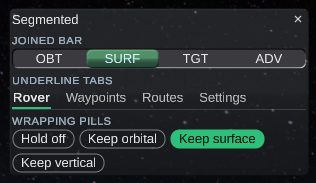
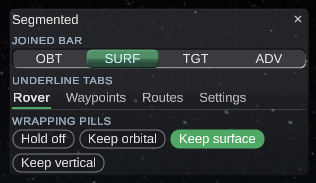
New UI: one Classic skin
The plain Classic skin goes, and Classic+ takes its name, so it's the default.
Theme.TintRoles goes with it: no skin leaves its role buttons plain now.

UiSkin is saved as the index in the skin list, so a value saved by an earlier
build moves: Flat (2) now reads as Glass, Glass (3) as ZTheme.

Changed region(s): [[0.5411, 0.7104, 0.8544, 0.8197], [0.0285, 0.5738, 0.1709, 0.6011]]

diff --git a/MechJeb2.UI/KodeKit/Theme.cs b/MechJeb2.UI/KodeKit/Theme.cs
@@ -79,9 +79,6 @@ namespace KodeKit
         /// <summary>Hairlines: the tabs' base line, separators.</summary>
         public Color Rule = new Color(1, 1, 1, 0.14f);
 
-        /// <summary>Primary and danger buttons without a style of their own are tinted (Classic+); off, they look plain, as in IMGUI (Classic).</summary>
-        public bool TintRoles;
-
         // the tinted role looks, made once per role and Button (Role is called on every restyle of every role button)
         ElementStyle[] tinted;
         ElementStyle tintedFrom;
@@ -92,7 +89,6 @@ namespace KodeKit
         {
             ElementStyle own = role == ButtonRole.Primary ? Primary : role == ButtonRole.Danger ? Danger : role == ButtonRole.Selected ? Selected : null;
             if (own != null || role == ButtonRole.Normal) return own ?? Button;
-            if (!TintRoles && role != ButtonRole.Selected) return Button;
             // a new array, not a cleared one: Copy() shares this one with the theme it was copied from
             if (tinted == null || tintedFrom != Button || tintedTint != Button.Tint)
             {
@@ -217,11 +213,10 @@ namespace KodeKit
             return t;
         }
 
-        /// <summary>Skin A, "Classic+": KSP's stock sprites, with section headers, an accent and button roles (tinted).</summary>
-        public static Theme ClassicPlus(Theme from)
+        /// <summary>Skin A, "Classic": KSP's stock sprites, with an accent and button roles (tinted).</summary>
+        public static Theme Classic(Theme from)
         {
-            Theme t = from.Copy("Classic+");
-            t.TintRoles = true;
+            Theme t = from.Copy("Classic");
             t.Accent = new Color(0.31f, 0.66f, 0.39f);
             t.AccentText = Color.white;
             t.Header = new Color(0.62f, 0.69f, 0.75f);

diff --git a/MechJeb2.UI/src/KodeHost.cs b/MechJeb2.UI/src/KodeHost.cs
@@ -217,7 +217,7 @@ namespace MuMech.UI
 
         /// <summary>
         /// MechJeb skin → KodeKit theme: KSP's stock sprites at MechJeb's text size (MechJeb's DEFAULT and MECH_JEB1), tighter
-        /// for COMPACT, then the new UI's own skin on top (Classic+, Flat, Glass).
+        /// for COMPACT, then the new UI's own skin on top (Classic, Flat, Glass, ZTheme).
         /// </summary>
         void ApplyTheme()
         {
@@ -249,7 +249,7 @@ namespace MuMech.UI
             // darker windows than KSP's grey sprite, at the user's opacity (Settings → "New UI opacity")
             opacity = Mathf.Clamp(opacity, 0.3f, 1f);
             t.Window.Tint = new Color(0.5f, 0.5f, 0.5f, opacity);
-            if (skin == MechJebModuleSettings.UiSkinType.ClassicPlus) t = Theme.ClassicPlus(t);
+            if (skin == MechJebModuleSettings.UiSkinType.Classic) t = Theme.Classic(t);
             else if (skin == MechJebModuleSettings.UiSkinType.Flat) t = Theme.Flat(t);
             else if (skin == MechJebModuleSettings.UiSkinType.Glass) t = Theme.Glass(t);
             else if (skin == MechJebModuleSettings.UiSkinType.ZTheme) t = Theme.ZTheme(t);

diff --git a/MechJeb2/MechJebModuleSettings.cs b/MechJeb2/MechJebModuleSettings.cs
@@ -50,9 +50,9 @@ namespace MuMech
         public float UiOpacity = 0.85f;
 
         // the new UI's look, set from its own Settings window; IMGUI ignores them
-        public enum UiSkinType { Classic, ClassicPlus, Flat, Glass, ZTheme }
+        public enum UiSkinType { Classic, Flat, Glass, ZTheme }
 
-        /// <summary>New UI skin: Classic (IMGUI's look), Classic+ (stock sprites, tidied), Flat (dark, flat), Glass (translucent HUD), ZTheme (the ZTheme mod's colours).</summary>
+        /// <summary>New UI skin: Classic (stock sprites, tinted button roles), Flat (dark, flat), Glass (translucent HUD), ZTheme (the ZTheme mod's colours).</summary>
         [Persistent(pass = (int)Pass.GLOBAL)]
         public int UiSkin = (int)UiSkinType.Classic;
 

diff --git a/MechJeb2.UI/src/SettingsView.cs b/MechJeb2.UI/src/SettingsView.cs
@@ -115,7 +115,7 @@ namespace MuMech.UI
             // the new UI's look: its skin, and the modern layout (KodeHost rebuilds the windows when the layout changes)
             Layout skin = KodeWindow.Row(r);
             KodeWindow.Label(skin, "#MechJeb_NewUI_Skin");
-            string[] skins = Locs("#MechJeb_NewUI_SkinClassic", "#MechJeb_NewUI_SkinClassicPlus", "#MechJeb_NewUI_SkinFlat", "#MechJeb_NewUI_SkinGlass", "#MechJeb_NewUI_SkinZTheme");
+            string[] skins = Locs("#MechJeb_NewUI_SkinClassic", "#MechJeb_NewUI_SkinFlat", "#MechJeb_NewUI_SkinGlass", "#MechJeb_NewUI_SkinZTheme");
             new ComboBox(w, skin, () => settings.UiSkin, i =>
             {
                 settings.UiSkin = i;

diff --git a/MechJeb2.UI/KodeKit/LAYOUTS.md b/MechJeb2.UI/KodeKit/LAYOUTS.md
@@ -15,7 +15,7 @@ The new UI's Settings window has three settings for this. All are saved globally
 
 | Setting | Field | Values | Effect |
 |---|---|---|---|
-| New UI skin | `UiSkin` | Classic, Classic+, Flat, Glass, ZTheme | The look (see Skins). It applies to every new-UI window at once, without a rebuild. |
+| New UI skin | `UiSkin` | Classic, Flat, Glass, ZTheme | The look (see Skins). It applies to every new-UI window at once, without a rebuild. |
 | Modern layout | `UiModernLayout` | off (default) / on | Views build with the widgets below instead of IMGUI's. Changing it rebuilds the open windows. |
 | Section headers | `UiSectionHeaders` | on (default) / off | The headers the modern layout adds to long windows (`KodeWindow.Header`). |
 
@@ -27,7 +27,7 @@ used to compare the three styles window by window, then dropped (2026-10-30).
 
 ## Skins
 
-`Theme.ClassicPlus`, `Theme.Flat`, `Theme.Glass` and `Theme.ZTheme` derive from the base theme (KSP's stock sprites,
+`Theme.Classic`, `Theme.Flat`, `Theme.Glass` and `Theme.ZTheme` derive from the base theme (KSP's stock sprites,
 LiberationSans 13 px, MechJeb's row heights). Each sets the accent colour, the header colour, the hairline (`Rule`) colour,
 and the `Primary` / `Danger` / `Selected` button styles. Flat, Glass and ZTheme also replace every sprite with rounded boxes
 drawn in code (`Sprites.RoundedBox`, 9-sliced at the corner radius, cached per parameters). The window opacity setting goes
@@ -37,10 +37,6 @@ into the window tint's alpha.
 
 ![](doc/Classic_all.jpg)
 
-**Classic+**
-
-![](doc/ClassicPlus_all.jpg)
-
 **Flat**
 
 ![](doc/Flat_all.jpg)
@@ -49,10 +45,8 @@ into the window tint's alpha.
 
 ![](doc/Glass_all.jpg)
 
-- **Classic**: KSP's sprites, as close to IMGUI as possible. Main and destructive buttons stay plain, and selected choices
-  are green, as in IMGUI's selection grids.
-- **Classic+**: the same sprites, with its own accent colour. Main buttons are tinted blue and destructive ones red
-  (`Theme.TintRoles`).
+- **Classic**: KSP's sprites, with its own accent colour. Main buttons are tinted blue, destructive ones red, and selected
+  choices green, as in IMGUI's selection grids.
 - **Flat**: solid dark panels with 4 to 7 px corners and one green accent.
 - **Glass**: translucent panels with cyan outlines, close to KSP's navball and map HUD.
 - **ZTheme**: purple-tinted dark greys and a green accent, the colours of the ZTheme mod (github.com/zapSNH/ZTheme). It
@@ -180,9 +174,9 @@ bar.Primary("#MechJeb_Maneu_button1", () => CreateNodes(false));
 
 Each window shows the three styles, top to bottom: joined bar, underline tabs, wrapping pills.
 
-| Classic | Classic+ | Flat | Glass |
-|---|---|---|---|
-| ![](doc/Classic_Segmented.png) | ![](doc/ClassicPlus_Segmented.png) | ![](doc/Flat_Segmented.png) | ![](doc/Glass_Segmented.png) |
+| Classic | Flat | Glass |
+|---|---|---|
+| ![](doc/Classic_Segmented.png) | ![](doc/Flat_Segmented.png) | ![](doc/Glass_Segmented.png) |
 
 One control for "exactly one of these". It replaces SelectionGrid rows and sets of checkboxes that act as one choice.
 
@@ -261,9 +255,8 @@ w.Visible(GuidanceUi.Wrapped(bar, "#MechJeb_Docking_label2").gameObject, () => n
 ### Buttons by role
 
 `ButtonRole.Normal`, `Primary` (the main action), `Danger` (destructive) and `Selected` (a chosen option). Each role has
-its own style in Flat and Glass. Classic+ tints the stock button for each role. Classic tints it green for Selected only,
-and leaves Primary and Danger plain, as IMGUI does. Use `w.BindRole(button, () => role)` for a
-role that follows a state, such as a state button that turns Selected while its mode is on.
+its own style in Flat, Glass and ZTheme. Classic tints the stock button for each role. Use `w.BindRole(button, () => role)`
+for a role that follows a state, such as a state button that turns Selected while its mode is on.
 
 A fixed role (`Button(..., role)` or `KodeWindow.Role(button, role)`) only shows in the modern layout: the classic layout
 keeps IMGUI's plain buttons, so a view builds the same buttons in both. `BindRole` applies in both layouts.
